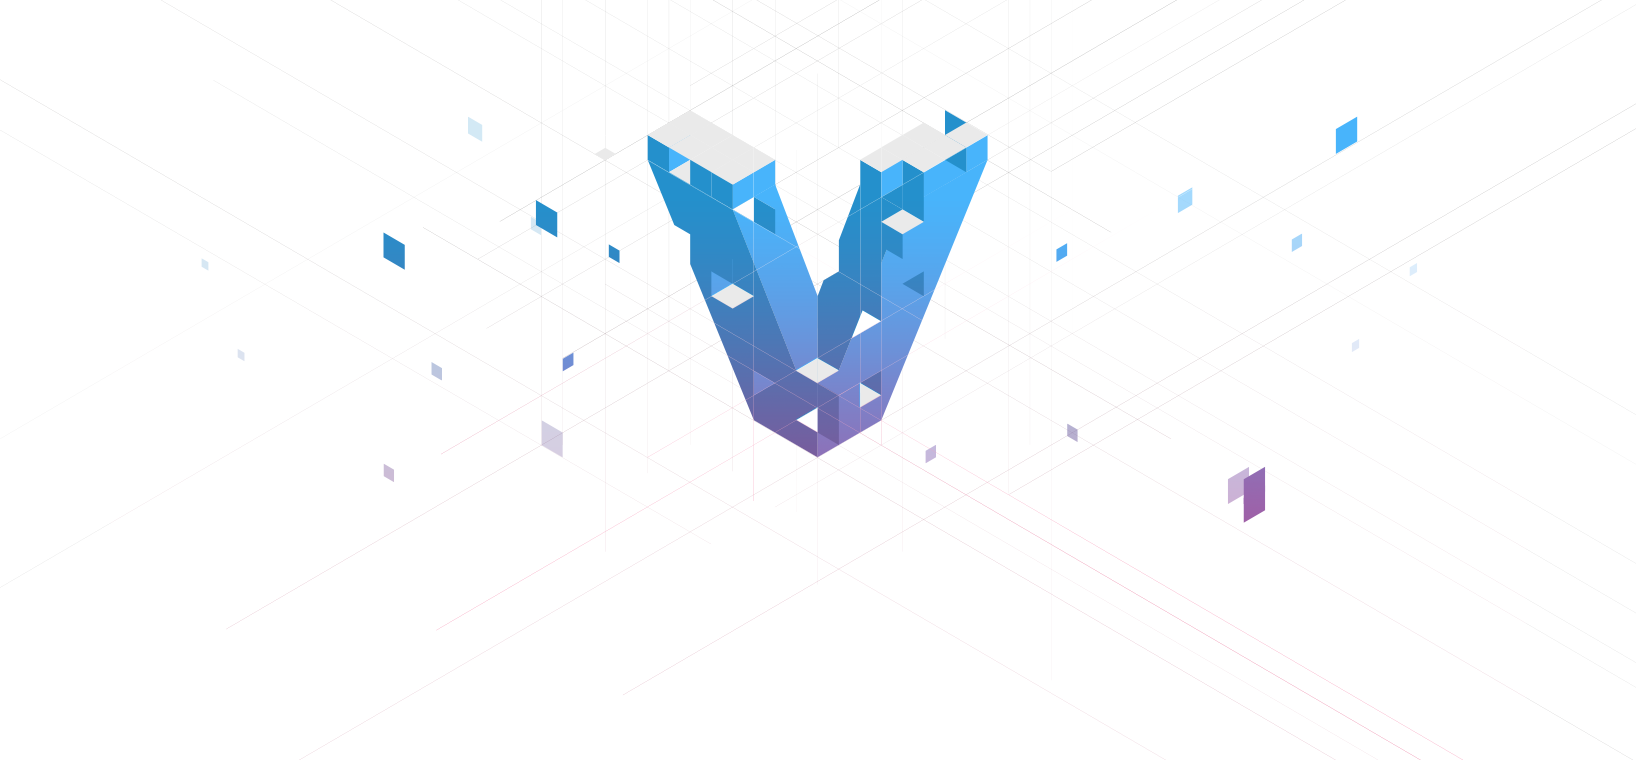
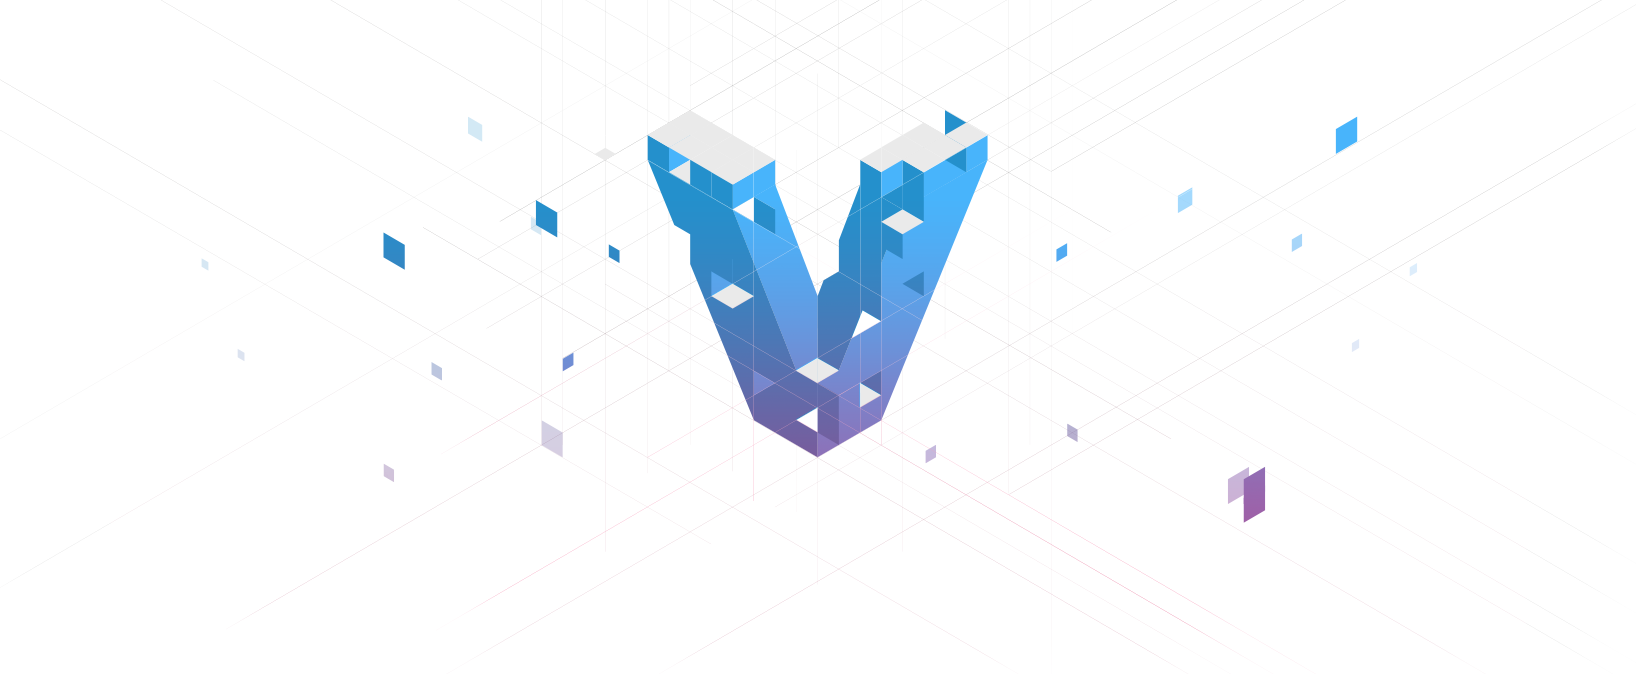
Visual design changes to header
The original text over the busy image is a bit hard to read. This
commit moves the tagline below and slightly reduces the size of the
image to make room

diff --git a/website/source/assets/stylesheets/_home.scss b/website/source/assets/stylesheets/_home.scss
@@ -1,11 +1,20 @@
 .page-home {
-  h1 {
+
+  h1, h2, h3, h4, h5 {
+    color: $purple-text;
+    font-family: $font-family-klavika;
+    text-transform: uppercase;
     text-align: center;
+  }
+
+  p {
+    color: $purple-text;
   }
 
   .hero {
     @include padded;
-    background: $gray-background image-url("vagrant_header_background.png") no-repeat center -80px;
+    background: $gray-background image-url("vagrant_header_background.png") no-repeat center -20px;
+    background-size: 1292px 532px;
     text-align: center;
     border-bottom: 1px solid #c6e0f0;
 
@@ -18,19 +27,13 @@
 
         h1 {
           color: $purple-text;
-          font-size: 55px;
-          font-weight: 700;
-          line-height: 60px;
-          margin-bottom: ($baseline * 4);
+          // font-size: 55px;
+          line-height: 1;
+          margin-top: 350px;
         }
 
-        h2 {
-          color: $blue-text;
-          font-size: 28px;
-          font-weight: 100;
-          letter-spacing: 1.6px;
-          line-height: 40px;
-          text-transform: none;
+        p {
+          color: $vagrant-blue;
         }
       }
 
@@ -48,12 +51,8 @@
     @include padded;
     background: $light-blue-background image-url("steps_background.png") center -120px;
 
-    h1 {
+    h2 {
       color: $blue-text;
-      text-transform: uppercase;
-      text-align: center;
-      font-size: 40px;
-      line-height: 50px;
     }
 
     hgroup {
@@ -61,11 +60,8 @@
       // width: 530px;
 
       h3 {
-        text-align: center;
-        text-transform: uppercase;
-        font-size: 40px;
+        font-weight: bold;
         margin-bottom: $baseline;
-        color: $purple-text;
       }
 
       h4 {
@@ -79,7 +75,7 @@
     @include padded;
     @include get-started-bg;
 
-    h1 {
+    h2 {
       color: $white;
     }
 
@@ -96,7 +92,7 @@
     background-color: $black;
     border-bottom: 1px solid #333;
 
-    h1 {
+    h2 {
       color: $dark-gray-text;
     }
 

diff --git a/website/source/assets/stylesheets/_docs.scss b/website/source/assets/stylesheets/_docs.scss
@@ -99,7 +99,7 @@ body.layout-intro {
         display: block;
 
         li.active a {
-          font-weight: $font-weight-open-sans-b;
+          font-weight: $font-weight-b;
         }
 
         li a {
@@ -123,7 +123,7 @@ body.layout-intro {
           }
 
           li.active a {
-            font-weight: $font-weight-open-sans-b;
+            font-weight: $font-weight-b;
           }
         }
       }
@@ -182,7 +182,6 @@ body.layout-intro {
   p, li, .alert {
     font-size: 20px;
     font-family: $font-family-open-sans;
-    font-weight: $font-weight-open-sans;
     line-height: 1.5em;
     margin: 0 0 18px;
     -webkit-font-smoothing: antialiased;

diff --git a/website/source/assets/stylesheets/_global.scss b/website/source/assets/stylesheets/_global.scss
@@ -13,10 +13,6 @@ body {
   font-weight: 400;
 }
 
-h1, h2, h3, h4, h5 {
-  font-family: $font-family-klavika;
-}
-
 h1 {
   font-size: 42px;
   line-height: 42px;
@@ -24,7 +20,7 @@ h1 {
 }
 
 h2 {
-  text-transform: uppercase;
+  font-size: 36px;
   margin-top: 70px;
 }
 
@@ -33,13 +29,12 @@ h1 + h2 {
 }
 
 h3 {
-  font-size: 28px;
+  font-size: 24px;
   line-height: 28px;
 }
 
 p, a {
   font-family: $font-family-open-sans;
-  font-family: $font-weight-open-sans-reg;
 }
 
 .highlight{
